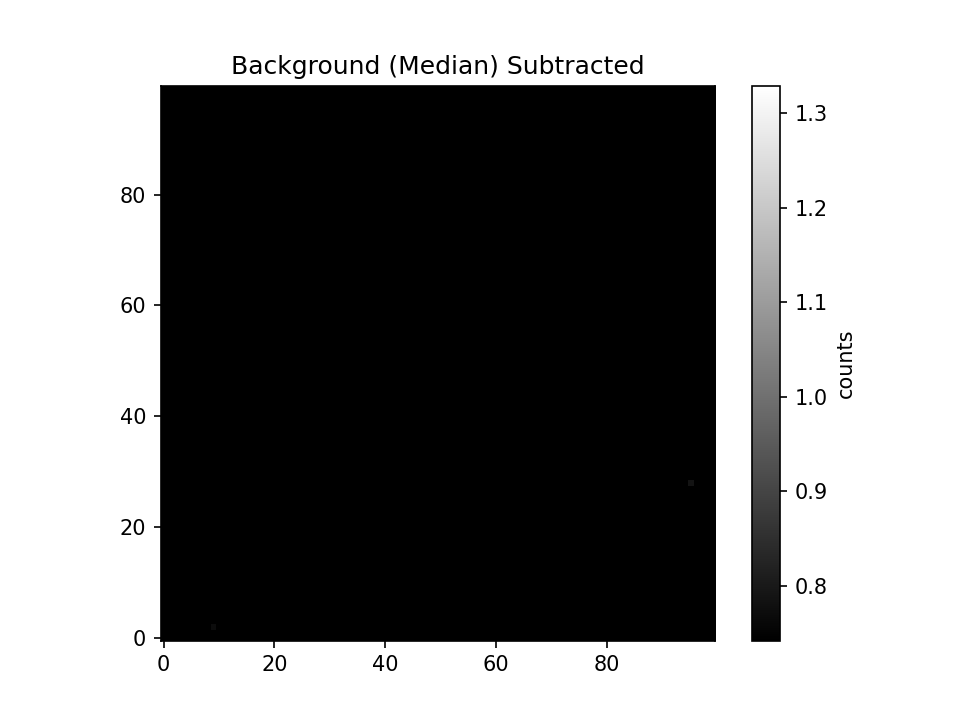
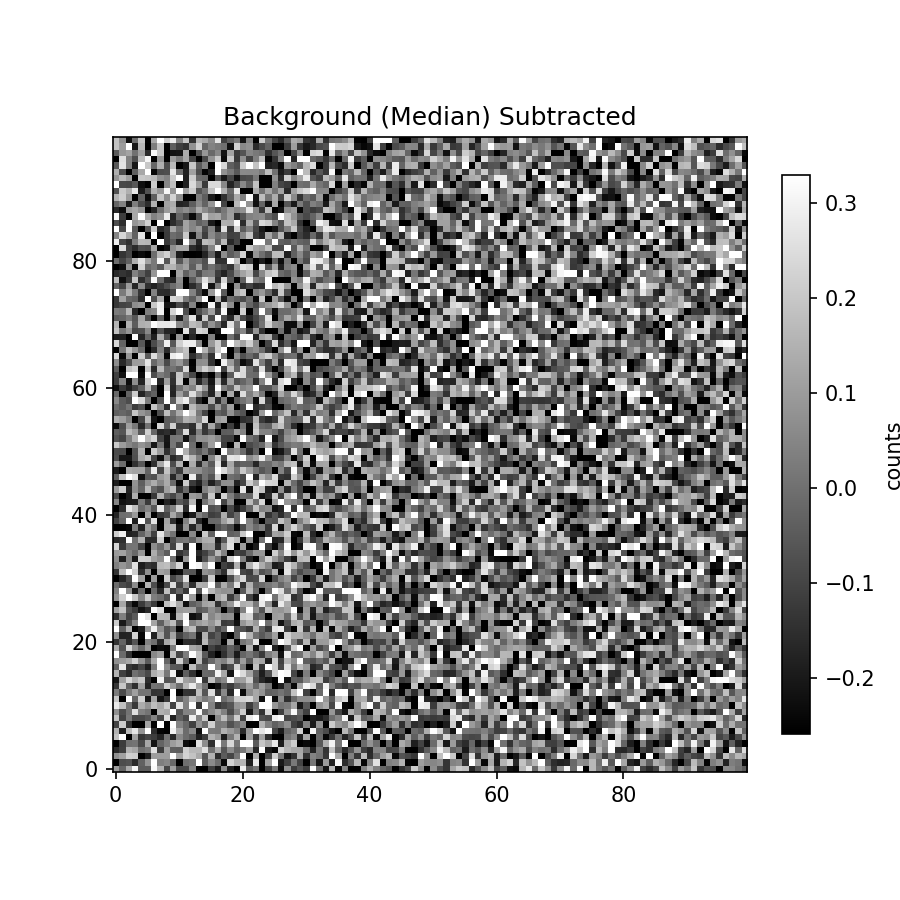
updated code

diff --git a/test-background-subtraction.py b/test-background-subtraction.py
@@ -12,10 +12,14 @@ import numpy as np
 import pandas as pd
 import os
 import matplotlib.pyplot as plt
+import photutils
 
 from scipy import stats
+from photutils import datasets
 from matplotlib import colors
 from scipy.stats import scoreatpercentile
+from astropy.io import fits
+from astropy.visualization import ZScaleInterval
 
 #set the home path
 os.environ['HOME'] = '/Users/madeline.evenson/Research'
@@ -42,7 +46,7 @@ std_dev = .2
 
 gaussian_array = np.random.normal(loc=mean, scale=std_dev, size=(size, size))
 
-print(np.round(gaussian_array, 2))
+#print(np.round(gaussian_array, 2))
 
 
 # %%
@@ -84,15 +88,40 @@ def np_image(image, v1perc=10, v2perc=95, logscale=True):
         
 # %%
 
-#plot original fake data
+##### plot original fake data ######
 
 fig, ax = np_image(gaussian_array, v1perc=10, v2perc=95, logscale=False)
 ax.set_title('Original Data')
 
 savepath = os.path.join(plotdir, "fake-100x100-array.png")
 plt.savefig(savepath, dpi=150)
-        
-#calcualte median and mode of original fake data
+
+
+
+
+
+##### plot histogram of fake data #####
+
+flat_gaussian_array = gaussian_array.ravel()
+#print(flat_gaussian_array.round(2))
+
+fig, ax = plt.subplots(figsize=(6,6))
+
+plt.hist(flat_gaussian_array, bins=100, edgecolor='black')
+plt.title('Fake Data Histogram')
+plt.xlabel('Flux')
+plt.ylabel('Counts')
+
+savepath = os.path.join(plotdir, "Fake-data-histogram.png")
+plt.savefig(savepath, dpi=150)
+
+
+     
+
+# %%
+    
+
+##### calcualte median and mode of original fake data #####
 
 bkgmode = stats.mode(gaussian_array, axis=None).mode
 bkgmed = np.median(gaussian_array)
@@ -102,7 +131,7 @@ print(f'median: {bkgmed}')
 
 
 
-#subtract background from fake data
+##### subtract background from fake data #####
 
 median_subtracted = gaussian_array - bkgmed
 mode_subtracted = gaussian_array - bkgmode
@@ -112,15 +141,11 @@ mode_subtracted = gaussian_array - bkgmode
 
 
 
-#plot background subtracted images
+#####plot background subtracted images #####
 
-## when we subtract background we need to make sure that the color bar v1perc and v2perc stays consistent because otherwise will just scale with images
-v1 = scoreatpercentile(gaussian_array, 10)
-v2 = scoreatpercentile(gaussian_array, 95)
 
-fig, ax = plt.subplots()
-im = ax.imshow(median_subtracted, cmap='gray', vmin=v1, vmax=v2, origin='lower')
-fig.colorbar(im, ax=ax, label='counts')
+#median subtracted image
+fig, ax = np_image(median_subtracted, v1perc=10, v2perc=95, logscale=False)
 ax.set_title('Background (Median) Subtracted')
 
 savepath = os.path.join(plotdir, "median-subtracted-100x100.png")
@@ -128,24 +153,188 @@ plt.savefig(savepath, dpi=150)
 
 
 
+#median subtracted histogram
+flat_median_array = median_subtracted.ravel()
 
-fig, ax = plt.subplots()
-im = ax.imshow(mode_subtracted, cmap='gray', vmin=v1, vmax=v2, origin='lower')
-fig.colorbar(im, ax=ax, label='counts')
+fig, ax = plt.subplots(figsize=(6,6))
+
+plt.hist(flat_median_array, bins=100, edgecolor='black')
+plt.title('Median-Subtracted Histogram')
+plt.xlabel('Flux')
+plt.ylabel('Counts')
+
+savepath = os.path.join(plotdir, "Median-subtracted-histogram.png")
+plt.savefig(savepath, dpi=150)
+
+
+
+
+#mode subtracted image
+fig, ax = np_image(mode_subtracted, v1perc=10, v2perc=95, logscale=False)
 ax.set_title('Background (Mode) Subtracted')
 
 savepath = os.path.join(plotdir, "mode-subtracted-100x100.png")
 plt.savefig(savepath, dpi=150)
 
 
+
+#mode subtracted histogram
+flat_mode_array = mode_subtracted.ravel()
+
+fig, ax = plt.subplots(figsize=(6,6))
+
+plt.hist(flat_mode_array, bins=100, edgecolor='black')
+plt.title('Mode-Subtracted Histogram')
+plt.xlabel('Flux')
+plt.ylabel('Counts')
+
+savepath = os.path.join(plotdir, "Mode-subtracted-histogram.png")
+plt.savefig(savepath, dpi=150)
+
+
+# %%
+
+
+#adding stars to fake data --> function from astropy tutorials
+def stars(image, number, max_counts=10000, fwhm=9.4, min_separation=20, gain=1):
+    """
+    Add some stars to the image.
+    """
+    from photutils.datasets import make_model_image, make_model_params
+    from photutils.psf import CircularGaussianPSF
+
+    psf_model = CircularGaussianPSF(fwhm=fwhm)
+    max_counts *= 100  # approx. peak amplitude to flux
+    params = make_model_params(image.shape, 
+                               n_sources=number,
+                               flux=(max_counts / 10, max_counts),
+                               min_separation=min_separation,
+                               border_size=10)
+
+    return make_model_image(image.shape, psf_model, params,
+                            progress_bar=True)
+
+
+
+synthetic_image = np.zeros([1000, 1000])
+
+
+#add stars onto blank iamge
+stars_only = stars(synthetic_image, 50, max_counts=2000)
+
+fig, ax = plt.subplots(figsize=(6, 6))
+ax.imshow(stars_only, cmap='gray', origin='lower', vmin=0, vmax=np.percentile(stars_only, 99.9))
+
+ax.set_title('Stars only')
+
+
+# %%
+
+
+     
+
+    
+#creating synthetic extended source to add to fake data to later remove
+
+size = 100
+
+center_x, center_y = 50, 50
+sigma_x, sigma_y = 5, 5  #controls the "extension" of the source
+
+#create the coordinate grids
+y, x = np.ogrid[:size, :size]
+
+#calcualte the gaussian extended source
+
+source_peak_flux = 1.7
+extended_source = source_peak_flux * np.exp(-((x - center_x)**2 / (2*sigma_x**2) + (y - center_y)**2 / (2*sigma_y**2)))
+
+final_image = extended_source + gaussian_array
+
+fig, ax = np_image(final_image, v1perc=10, v2perc=95, logscale=False)
+ax.set_title('Fake Data with Synthetic Source')
+
+savepath = os.path.join(plotdir, "Fake-data-plus-synthetic-source.png")
+plt.savefig(savepath, dpi=150)
+
+
+
+
+#synthetic source histogram
+flat_final_array = final_image.ravel()
+
+fig, ax = plt.subplots(figsize=(6,6))
+
+plt.hist(flat_final_array, bins=100, edgecolor='black')
+plt.title('Synthetic Source Histogram')
+plt.xlabel('Flux')
+plt.ylabel('Counts')
+
+savepath = os.path.join(plotdir, "Synthetic-source-histogram.png")
+plt.savefig(savepath, dpi=150)
+
         
         
-        
-        
-        
-        
-        
-        
-        
+
+#adding stars to fake data with synthetic source
+star_data = stars(final_image, number=10, max_counts=20, fwhm=1, min_separation=10)
+final_image = final_image + star_data
+
+fig, ax = np_image(final_image, v1perc=10, v2perc=95, logscale=False)
+ax.set_title('Synthetic Source + Stars')
+
+savepath = os.path.join(plotdir, "Synthetic-source-with-stars.png")
+plt.savefig(savepath, dpi=150)
+
+
+
+# %%
+
+
+#this part of the notebook is dedicated to learning how to create a mask and then using routine to mask bright sources
+#once making masks are understood, then will figure out how to make masks bigger/smaller
+
+data = final_image
+
+
+#define brightness threshold
+threshold = 1.5
+
+#create boolean mask
+    # True = 1 = good pixels (keep)
+    # False = 0 = bright pixels (mask)
+
+mask = data < threshold
+
+#apply mask to data
+masked_data = np.ma.masked_array(data, mask=mask)
+
+#visualize data using astropy's ZScale
+fig, ax = plt.subplots(1, 2, figsize=(12, 6))
+interval = ZScaleInterval()
+vmin, vmax = interval.get_limits(data)
+
+#original image
+im1 = ax[0].imshow(data, cmap='gray', origin='lower', vmin=vmin, vmax=vmax)
+ax[0].set_title('Original Image')
+ax[0].axis('off')
+
+#masked image
+#matplotlib automatically renders masked values (False) transparent/white
+im2 = ax[1].imshow(masked_data, cmap='gray', origin='lower', vmin=vmin, vmax=vmax)
+ax[1].set_title(f'Masked Pixels (> {threshold})')
+ax[1].axis('off')
+
+fig.colorbar(im2, ax=ax[1])
+
+plt.tight_layout()
+
+savepath = os.path.join(plotdir, "Masked-plus-unmasked.png")
+plt.savefig(savepath, dpi=150)
+
+
+
+
+
         
         
